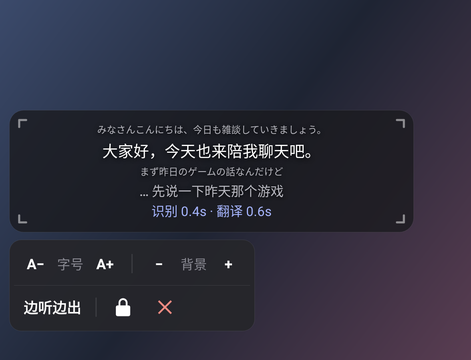
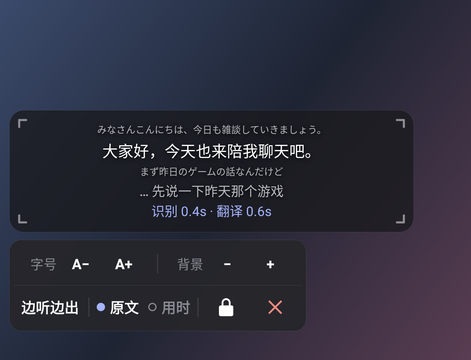
Overlay toolbar: 原文 and 用时 switches, even rows; no lock badge
- Row 2 gains two switches for showing the original text and the timings,
  each with a dot that is lit when on and hollow when off.
- Both rows are as wide as the wider one and share that width: no empty
  space at the end of a row. Row 1 is two halves, 字号 A− A+ and 背景 − +.
- Locked: no 🔒 badge stays on the card; a tap still shows the unlock button.
- How-to, README and the overlay screenshot updated.

diff --git a/app/src/main/java/io/github/korenkrita/simulsub/CaptionOverlayView.kt b/app/src/main/java/io/github/korenkrita/simulsub/CaptionOverlayView.kt
@@ -37,7 +37,6 @@ class CaptionOverlayView(ctx: Context, private val interactive: Boolean) : Linea
     /** resize marks, one per corner: top-left, top-right, bottom-right, bottom-left */
     private val corners = List(4) { android.widget.ImageView(ctx) }
     private val unlockBtn = ImageButton(ctx)
-    private val lockBadge = TextView(ctx)
     private val toolbar = LinearLayout(ctx)
     private val bg = GradientDrawable().apply { cornerRadius = dp(12f) }
 
@@ -60,14 +59,40 @@ class CaptionOverlayView(ctx: Context, private val interactive: Boolean) : Linea
     private val modeBtn = TextView(ctx).apply {
         setTextColor(Color.WHITE); setTextSize(TypedValue.COMPLEX_UNIT_SP, 12f); typeface = Typeface.DEFAULT_BOLD
         gravity = Gravity.CENTER
-        setPadding(dp(8f).toInt(), 0, dp(8f).toInt(), 0)
-        minHeight = dp(36f).toInt(); minWidth = dp(36f).toInt()
+        setPadding(dp(6f).toInt(), 0, dp(6f).toInt(), 0)
+        minWidth = dp(36f).toInt()
         setOnClickListener { onToggleMode(); bumpToolbarTimer() }
     }
     /** Shows the current mode on the toolbar button; the label is what is on screen now. */
     fun setFinalOnly(v: Boolean) {
         modeBtn.text = if (v) "说完再出" else "边听边出"
         modeBtn.contentDescription = if (v) "现在每句说完才显示，点一下改为边听边出" else "现在边听边出，点一下改为每句说完再显示"
+    }
+    /** 原文 / 用时 tapped: the host flips the pref; [setShown] shows the new state. */
+    var onToggleJa: () -> Unit = {}
+    var onToggleStats: () -> Unit = {}
+    private fun switchBtn(label: String, onClick: () -> Unit) = TextView(context).apply {
+        text = label; setTextSize(TypedValue.COMPLEX_UNIT_SP, 12f); typeface = Typeface.DEFAULT_BOLD
+        gravity = Gravity.CENTER; minWidth = dp(36f).toInt()
+        compoundDrawablePadding = dp(4f).toInt()
+        setPadding(dp(4f).toInt(), 0, dp(4f).toInt(), 0)
+        setOnClickListener { onClick(); bumpToolbarTimer() }
+    }
+    private val jaBtn = switchBtn("原文") { onToggleJa() }
+    private val statsBtn = switchBtn("用时") { onToggleStats() }
+    /** A switch on the toolbar: a lit dot and white label when on, a hollow grey one when off. */
+    private fun showSwitch(b: TextView, on: Boolean, what: String) {
+        val dot = GradientDrawable().apply {
+            shape = GradientDrawable.OVAL; setSize(dp(7f).toInt(), dp(7f).toInt())
+            if (on) setColor(0xFFA5B4FC.toInt()) else { setColor(0); setStroke(dp(1f).toInt().coerceAtLeast(1), 0xFF8B8B94.toInt()) }
+        }
+        b.setCompoundDrawablesRelativeWithIntrinsicBounds(dot, null, null, null)
+        b.setTextColor(if (on) Color.WHITE else 0xFF8B8B94.toInt())
+        b.contentDescription = if (on) "${what}：开，点一下关掉" else "${what}：关，点一下打开"
+    }
+    /** The 原文 / 用时 switches show these states. */
+    fun setShown(ja: Boolean, stats: Boolean) {
+        showSwitch(jaBtn, ja, "显示原文"); showSwitch(statsBtn, stats, "显示识别和翻译用时")
     }
     /** Toolbar opened/closed: the host widens the window while it is open so the toolbar is never clipped. */
     var onToolbarShown: (Boolean) -> Unit = {}
@@ -180,12 +205,6 @@ class CaptionOverlayView(ctx: Context, private val interactive: Boolean) : Linea
                 val m = dp(3f).toInt(); setMargins(m, m, m, m)
             })
         }
-        lockBadge.apply {
-            text = "🔒"; setTextSize(TypedValue.COMPLEX_UNIT_SP, 11f); visibility = GONE
-        }
-        card.addView(lockBadge, FrameLayout.LayoutParams(FrameLayout.LayoutParams.WRAP_CONTENT, FrameLayout.LayoutParams.WRAP_CONTENT, Gravity.TOP or Gravity.END).apply {
-            setMargins(0, dp(4f).toInt(), dp(8f).toInt(), 0)
-        })
         // locked: a tap shows this in the bottom-right corner for a few seconds; tapping it unlocks
         unlockBtn.apply {
             setImageResource(R.drawable.ic_lock_open); contentDescription = "解锁位置和大小"
@@ -261,11 +280,15 @@ class CaptionOverlayView(ctx: Context, private val interactive: Boolean) : Linea
         stats.visibility = if (statsLine.isNullOrEmpty()) GONE else VISIBLE
     }
 
-    /** Two compact rows: font and background −/+ on top; mode, lock and stop below. As small as a finger allows. */
+    /**
+     * Two rows, both as wide as the wider one, every cell sharing that width (no gaps):
+     *   字号  A−  A+   │  背景  −  +
+     *   边听边出 │ ● 原文 │ ● 用时 │ 🔒 │ ✕
+     * The two switches carry a dot that is lit when on, so they read as switches. As small as a finger allows.
+     */
     private fun buildToolbar() {
         toolbar.apply {
             orientation = VERTICAL
-            gravity = Gravity.CENTER_HORIZONTAL
             background = GradientDrawable().apply { cornerRadius = dp(10f); setColor(0xF526262B.toInt()); setStroke(dp(0.5f).toInt().coerceAtLeast(1), 0x1AFFFFFF) }
             setPadding(dp(4f).toInt(), dp(2f).toInt(), dp(4f).toInt(), dp(2f).toInt())
             elevation = dp(6f)
@@ -276,40 +299,52 @@ class CaptionOverlayView(ctx: Context, private val interactive: Boolean) : Linea
             visibility = GONE
         }
         val size = dp(36f).toInt() // smallest comfortable tap target
+        // a cell takes its share of the row (weight); its natural size is the minimum
+        fun cell(weight: Float = 1f) = LayoutParams(LayoutParams.WRAP_CONTENT, size, weight)
         fun btn(icon: Int, label: String, onClick: () -> Unit) = ImageButton(context).apply {
             setImageResource(icon); contentDescription = label
             background = null; val p = dp(9f).toInt(); setPadding(p, p, p, p)
             scaleType = android.widget.ImageView.ScaleType.FIT_CENTER
-            layoutParams = LayoutParams(size, size)
+            minimumWidth = size
+            layoutParams = cell()
             setOnClickListener { onClick(); bumpToolbarTimer() }
         }
         fun tag(t: String) = TextView(context).apply {
             text = t; setTextColor(0xFF8B8B94.toInt()); setTextSize(TypedValue.COMPLEX_UNIT_SP, 11f)
+            gravity = Gravity.CENTER; setPadding(dp(6f).toInt(), 0, dp(2f).toInt(), 0)
+            layoutParams = LayoutParams(LayoutParams.WRAP_CONTENT, size)
         }
-        fun sep() = View(context).apply { setBackgroundColor(0x1AFFFFFF); layoutParams = LayoutParams(dp(1f).toInt(), dp(16f).toInt()).apply { marginStart = dp(4f).toInt(); marginEnd = dp(4f).toInt() } }
+        fun sep() = View(context).apply { setBackgroundColor(0x1AFFFFFF); layoutParams = LayoutParams(dp(1f).toInt(), dp(16f).toInt()).apply { marginStart = dp(2f).toInt(); marginEnd = dp(2f).toInt() } }
         fun tbtn(label: String, desc: String, onClick: () -> Unit) = TextView(context).apply {
             text = label; contentDescription = desc
             setTextColor(Color.WHITE); setTextSize(TypedValue.COMPLEX_UNIT_SP, 12f); typeface = Typeface.DEFAULT_BOLD
-            gravity = Gravity.CENTER; minWidth = size; minHeight = size
-            setPadding(0, 0, 0, 0)
+            gravity = Gravity.CENTER; minWidth = size
+            setPadding(dp(2f).toInt(), 0, dp(2f).toInt(), 0)
+            layoutParams = cell()
             setOnClickListener { onClick(); bumpToolbarTimer() }
         }
         fun row() = LinearLayout(context).apply { orientation = HORIZONTAL; gravity = Gravity.CENTER_VERTICAL }
+        val full = LayoutParams(LayoutParams.MATCH_PARENT, LayoutParams.WRAP_CONTENT)
+        // two halves, each a label with its −/+ kept together (the spare width goes around a group, not inside it)
+        fun group(label: String, minus: View, plus: View) = LinearLayout(context).apply {
+            orientation = HORIZONTAL; gravity = Gravity.CENTER
+            addView(tag(label)); addView(minus.apply { layoutParams = LayoutParams(LayoutParams.WRAP_CONTENT, size) })
+            addView(plus.apply { layoutParams = LayoutParams(LayoutParams.WRAP_CONTENT, size) })
+        }
         toolbar.addView(row().apply {
-            addView(tbtn("A−", "字号减小") { setSize(textSp - 2) })
-            addView(tag("字号"))
-            addView(tbtn("A+", "字号增大") { setSize(textSp + 2) })
+            addView(group("字号", tbtn("A−", "字号减小") { setSize(textSp - 2) }, tbtn("A+", "字号增大") { setSize(textSp + 2) }), cell())
             addView(sep())
-            addView(tbtn("−", "背景更透明") { setAlphaStep(bgAlpha - 0.15f) })
-            addView(tag("背景"))
-            addView(tbtn("+", "背景更不透明") { setAlphaStep(bgAlpha + 0.15f) })
-        })
+            addView(group("背景", tbtn("−", "背景更透明") { setAlphaStep(bgAlpha - 0.15f) }, tbtn("+", "背景更不透明") { setAlphaStep(bgAlpha + 0.15f) }), cell())
+        }, full)
         toolbar.addView(row().apply {
-            addView(modeBtn)
+            modeBtn.layoutParams = cell(1.4f); addView(modeBtn)
+            addView(sep())
+            jaBtn.layoutParams = cell(); addView(jaBtn)
+            statsBtn.layoutParams = cell(); addView(statsBtn)
             addView(sep())
             addView(btn(R.drawable.ic_lock, "锁定位置和大小") { toggleLock() })
             addView(btn(R.drawable.ic_close, "停止字幕") { onStop() }.apply { setColorFilter(0xFFF28B82.toInt()) })
-        })
+        }, full)
     }
 
     private fun setSize(v: Float) { applyStyle(v.coerceIn(MIN_SP, MAX_SP), bgAlpha); onStyleChanged() }
@@ -317,7 +352,6 @@ class CaptionOverlayView(ctx: Context, private val interactive: Boolean) : Linea
 
     fun setLocked(v: Boolean) {
         locked = v
-        lockBadge.visibility = if (v) VISIBLE else GONE
         hideUnlock()
         showCorners()
     }

diff --git a/app/src/main/java/io/github/korenkrita/simulsub/CaptionService.kt b/app/src/main/java/io/github/korenkrita/simulsub/CaptionService.kt
@@ -471,6 +471,9 @@ class CaptionService : Service() {
         v.onStop = { stopSelf() }
         v.setFinalOnly(prefs.finalOnly)
         v.onToggleMode = { prefs.finalOnly = !prefs.finalOnly } // the listener below updates the button and captions
+        v.setShown(prefs.showJa, prefs.showStats)
+        v.onToggleJa = { prefs.showJa = !prefs.showJa }
+        v.onToggleStats = { prefs.showStats = !prefs.showStats }
         // taller text / toolbar / rotation: pull the window back on screen once the new height is known
         v.addOnLayoutChangeListener { _, _, top, _, bottom, _, oldTop, _, oldBottom ->
             if (bottom - top != oldBottom - oldTop) v.post { layout() }
@@ -482,7 +485,7 @@ class CaptionService : Service() {
                     v.applyStyle(prefs.textSp.coerceIn(CaptionOverlayView.MIN_SP, CaptionOverlayView.MAX_SP), prefs.bgAlpha)
                 "widthFrac" -> (area().width() * prefs.widthFrac).toInt().let { if (it != cardW) { cardW = it; layout() } }
                 "heightFrac" -> if (captionH == 0) { applyHeight(); layout() }
-                "showJa", "showStats" -> refresh()
+                "showJa", "showStats" -> { v.setShown(prefs.showJa, prefs.showStats); refresh() }
                 "palette" -> v.setColors(CaptionOverlayView.palette(prefs.palette))
                 "keepSentences", "keepChars" -> if (board.setLimits(prefs.keepSentences, prefs.keepChars)) refresh()
                 "finalOnly" -> { v.setFinalOnly(prefs.finalOnly); refresh() }

diff --git a/README.en.md b/README.en.md
@@ -60,7 +60,7 @@
 
 Subtitle size, colours and translation options are in Settings: the gear at the top right of the home screen.
 
-On the subtitle: **drag** to move · **tap** for the toolbar (text size, background, display mode, lock, stop); while it is shown, **drag a corner mark** to resize · **locked**: position and size are fixed, a tap only shows an unlock button.
+On the subtitle: **drag** to move · **tap** for the toolbar (text size, background, display mode, original text and timings on/off, lock, stop); while it is shown, **drag a corner mark** to resize · **locked**: position and size are fixed, a tap only shows an unlock button.
 
 The app's interface is in Chinese.
 

diff --git a/README.md b/README.md
@@ -64,7 +64,7 @@
 
 - **按住拖动**：换字幕的位置。
 - **点一下字幕，再拖四个角上的小箭头**：改字幕框的宽度和高度（小箭头和工具栏一起出现、一起消失）。
-- **点一下字幕**：出现工具栏，可以调字号、调背景、切换「边听边出 / 说完再出」、锁定，或者停止。
+- **点一下字幕**：出现工具栏，可以调字号、调背景、切换「边听边出 / 说完再出」、开关原文和用时、锁定，或者停止。
 - **锁定**：位置和大小都固定，不能拖动也不能改大小；点字幕不再出工具栏，只在右下角出一个开锁按钮，点它解锁。
 
 ## 安装
